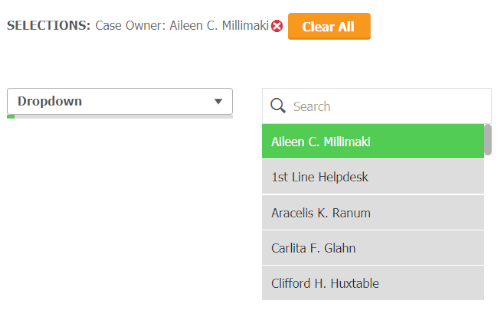
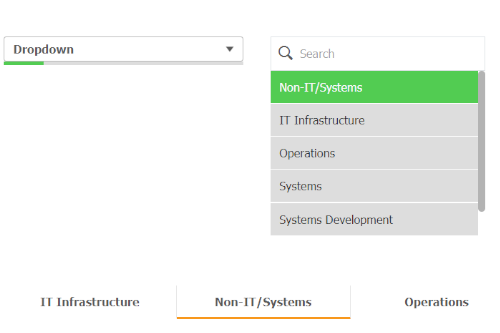
break up settings to individual components

diff --git a/src/pages/PicassoRangeAreaChart.jsx b/src/pages/PicassoRangeAreaChart.jsx
@@ -5,31 +5,33 @@ import QdtComponent from '../components/QdtComponent';
 const viz1 = {
   type: 'QdtSelectionToolbar',
   props: {
-    type: 'QdtSelectionToolbar', height: '300px',
+    type: 'QdtSelectionToolbar',
   },
 };
+
 const viz2 = {
   type: 'QdtPicasso',
   props: {
-    type: 'horizontalBarchart',
-    cols: ['Case Owner Group', '=Num(Avg([Case Duration Time]), \'##.0\')'],
+    type: 'rangeArea',
+    cols: ['Date.autoCalendar.YearMonth', '=Count( {$<Priority={\'High\'}, Status -={\'Closed\'} >} Distinct %CaseId )', '=Count( {$<Priority={\'Low\'}, Status -={\'Closed\'} >} Distinct %CaseId )'], //
     outerHeight: 300,
   },
 };
 
 const disCode = {
   template: '<QdtComponent type={viz2.type} props={viz2.props} />',
-  code: `const viz2 = {
+  code: `
+      const viz2 = {
         type: 'QdtPicasso',
         props: {
-            type: 'horizontalBarchart', 
-            cols: ['Case Owner Group', '=Avg([Case Duration Time])'], 
-            outerHeight: 300,
+          type: 'multiLineChart',
+          cols: ['Date.autoCalendar.YearMonth', '=Count( {$<Status -={'Closed'} >} Distinct %CaseId )', '=Count( {$<Status -={'In Process'} >} Distinct %CaseId )'], //
+          outerHeight: 300,
         },
-    };`,
+      };`,
 };
 
-const PicassoHorizontalBarchart = () => (
+const PicassoRangeAreaChart = () => (
   <div>
     <div className="row">
       <div className="col-md-12 text-left">
@@ -60,4 +62,4 @@ const PicassoHorizontalBarchart = () => (
   </div>
 );
 
-export default PicassoHorizontalBarchart;
+export default PicassoRangeAreaChart;

diff --git a/src/pages/Filters.jsx b/src/pages/Filters.jsx
@@ -11,15 +11,27 @@ const viz1 = {
 const viz2 = {
   type: 'QdtFilter',
   props: {
-    cols: ['Case Owner'],
+    cols: ['Case Owner Group'],
   },
 };
 const viz3 = {
   type: 'QdtFilter',
   props: {
-    cols: ['Case Owner'],
+    cols: ['Case Owner Group'],
     placeholder: 'Expanded',
     expanded: true,
+  },
+};
+
+const viz4 = {
+  type: 'QdtFilter',
+  props: {
+    cols: ['Case Owner Group'],
+    placeholder: 'Expanded',
+    single: true,
+    expandedHorizontal: true,
+    expandedHorizontalSense: false,
+    autoSortByState: 0,
   },
 };
 
@@ -28,6 +40,7 @@ const disCode = {
 <QdtComponent type={viz1.type} props={viz1.props} />
 <QdtComponent type={viz2.type} props={viz2.props} />
 <QdtComponent type={viz3.type} props={viz3.props} />
+<QdtComponent type={viz4.type} props={viz4.props} />
     `,
   code: `    
 const viz1 = {
@@ -49,6 +62,17 @@ const viz1 = {
       placeholder: 'Expanded',
       expanded: true,
     },
+  };
+  const viz4 = {
+    type: 'QdtFilter',
+    props: {
+      cols: ['Case Owner Group'],
+      placeholder: 'Expanded',
+      single: true,
+      expandedHorizontal: true,
+      expandedHorizontalSense: false,
+      autoSortByState: 0,
+    },
   };`,
 };
 
@@ -65,6 +89,9 @@ const Table = () => (
       </div>
       <div className="col-xs-6 col-sm-6 col-md-4 col-xl-3">
         <QdtComponent type={viz3.type} props={viz3.props} />
+      </div>
+      <div className="col-12">
+        <QdtComponent type={viz4.type} props={viz4.props} />
       </div>
     </div>
     <div className="row">

diff --git a/src/components/App.jsx b/src/components/App.jsx
@@ -18,6 +18,7 @@ import PicassoComboLineBarchart from '../pages/PicassoComboLineBarchart';
 import Search from '../pages/Search';
 import CurrentSelections from '../pages/CurrentSelections';
 import PicassoStackedBarchart from '../pages/PicassoStackedBarchart';
+import PicassoRangeAreaChart from '../pages/PicassoRangeAreaChart';
 import D3 from '../pages/D3';
 import Table from '../pages/Table';
 import TableEngine from '../pages/TableEngine';
@@ -44,6 +45,7 @@ const App = () => (
             <Route exact path="/picasso-line-chart" component={PicassoLinechart} />
             <Route exact path="/picasso-multi-line-chart" component={PicassoMultiLinechart} />
             <Route exact path="/picasso-combo-line-barchart" component={PicassoComboLineBarchart} />
+            <Route exact path="/picasso-range-area-chart" component={PicassoRangeAreaChart} />
             <Route exact path="/search" component={Search} />
             <Route exact path="/current-selections" component={CurrentSelections} />
             <Route exact path="/stacked-barchart" component={PicassoStackedBarchart} />

diff --git a/webpack.config.js b/webpack.config.js
@@ -4,7 +4,8 @@ const HtmlWebpackPlugin = require('html-webpack-plugin');
 const CopyWebpackPlugin = require('copy-webpack-plugin');
 
 module.exports = {
-  entry: ['babel-polyfill', 'react-hot-loader/patch', './src/index'],
+//   entry: ['babel-polyfill', 'react-hot-loader/patch', './src/index'],
+  entry: ['react-hot-loader/patch', './src/index'],
   output: {
     path: path.resolve(__dirname, 'dist'),
     publicPath: '',
@@ -18,7 +19,7 @@ module.exports = {
         exclude: /(node_modules)/,
         loader: 'babel-loader',
         query: {
-          presets: [['latest', {es2015: {modules: process.env.ENV === 'production' ? 'commonjs' : false}}], 'react'],
+          presets: [['env', {es2015: {modules: process.env.ENV === 'production' ? 'commonjs' : false}}], 'react'],
           plugins: ['transform-decorators-legacy', 'transform-object-rest-spread', 'transform-class-properties', 'react-hot-loader/babel'],
         },
       },

diff --git a/src/pages/Gauge.jsx b/src/pages/Gauge.jsx
@@ -13,18 +13,28 @@ const viz2 = {
   type: 'QdtPicasso',
   props: {
     type: 'verticalGauge',
-    cols: ['=Avg([Case Duration Time])'],
+    cols: ['=Num(Avg([Case Duration Time]), \'##.#0\')'],
     options: { min: 10, max: 40 },
     outerHeight: 400,
   },
 };
+
+// const viz5 = {
+//   type: 'QdtPicasso',
+//   props: {
+//     type: 'horizontalGauge',
+//     cols: ['=Avg([Case Duration Time])'],
+//     options: { min: 10, max: 40 },
+//     outerHeight: 400,
+//   },
+// };
 
 const viz3 = {
   type: 'QdtPicasso',
   props: {
     type: 'verticalRangeGauge',
     cols: [
-      '=Avg([Case Duration Time])', // Current
+      '=Num(Avg([Case Duration Time]), \'##.#0\')', // Current
       "=Min({<Priority={'High'}>}[Case Duration Time] )", // Range Min
       "=Max({<Priority={'High'}>}[Case Duration Time] )", // Range Max
       '=Min({1}[Case Duration Time])', // Min

diff --git a/src/index.html b/src/index.html
@@ -15,10 +15,10 @@
 	<meta http-equiv="cleartype" content="on">
     <meta name="viewport" content="width=device-width, initial-scale=1">
     <link rel="shortcut icon" href="favicon.ico" />
-    <link rel="stylesheet" href="https://cdnjs.cloudflare.com/ajax/libs/twitter-bootstrap/4.1.3/css/bootstrap-grid.min.css" />
+    <link rel="stylesheet" href="https://cdnjs.cloudflare.com/ajax/libs/twitter-bootstrap/4.1.3/css/bootstrap.min.css" />
     <link rel="stylesheet" href="https://cdnjs.cloudflare.com/ajax/libs/highlight.js/9.12.0/styles/vs2015.min.css">
   </head>
-  <body class="layout">
+  <body>
       <div class="container-fluid">
 
         <!-- React app -->

diff --git a/src/pages/Home.jsx b/src/pages/Home.jsx
@@ -156,6 +156,14 @@ const Home = () => (
         </div>
       </div>
 
+      <div className="col-md-4">
+        <div className="card">
+          <div className="card-header text-center">Picasso Range Area Chart</div>
+          <div className="card-body"><a href="#/picasso-range-area-chart"><img className="card-img-top" src="assets/picassoRangeAreaChart.png" alt="Embedded Native Object" /></a></div>
+          <div className="card-footer text-muted">Range Area chart with Picasso.js & Enigma.js (Engine API)</div>
+        </div>
+      </div>
+
     </div>
 
 

diff --git a/src/pages/PicassoScatterplot.jsx b/src/pages/PicassoScatterplot.jsx
@@ -11,7 +11,9 @@ const viz2 = {
   type: 'QdtPicasso',
   props: {
     type: 'scatterplot',
-    cols: ['Case Owner', '=Avg([Case Duration Time])', '=Count( {$<Status -={\'Closed\'} >} Distinct %CaseId )'],
+    // cols: ['Case Owner', '=Avg([Case Duration Time])',
+    // '=Count( {$<Status -={\'Closed\'} >} Distinct %CaseId )'],
+    cols: ['Case Owner', { qDef: { qDef: '=Avg([Case Duration Time])', qLabel: 'Avg Case Duration Time' } }, '=Count( {$<Status -={\'Closed\'} >} Distinct %CaseId )'],
     options: { noTooltip: true },
     outerHeight: 300,
   },

diff --git a/src/pages/PicassoMultiLinechart.jsx b/src/pages/PicassoMultiLinechart.jsx
@@ -13,7 +13,7 @@ const viz2 = {
   type: 'QdtPicasso',
   props: {
     type: 'multiLineChart',
-    cols: ['Date.autoCalendar.YearMonth', '=Sum([Number of New Cases])', '=Sum([Number of Closed Cases])'], //
+    cols: ['Date.autoCalendar.YearMonth', '=Count( {$<Priority={\'High\'}, Status -={\'Closed\'} >} Distinct %CaseId )', '=Count( {$<Priority={\'Low\'}, Status -={\'Closed\'} >} Distinct %CaseId )'], //
     outerHeight: 300,
   },
 };

diff --git a/src/pages/PicassoComboLineBarchart.jsx b/src/pages/PicassoComboLineBarchart.jsx
@@ -14,7 +14,7 @@ const viz2 = {
     type: 'comboLineBarchart',
     cols: [
       'Case Owner Group',
-      '=Avg([Case Duration Time])',
+      '=Num(Avg([Case Duration Time]), \'##.0\')',
       "=Count( {$<Priority={'Low'}, Status -={'Closed'} >} Distinct %CaseId )",
       "=Count( {$<Priority={'Medium'}, Status -={'Closed'} >} Distinct %CaseId )",
       "=Count( {$<Priority={'High'}, Status -={'Closed'} >} Distinct %CaseId )",

diff --git a/src/styles/index.scss b/src/styles/index.scss
@@ -86,3 +86,11 @@ h1, h2, h3, h4, h5, h6, .h1, .h2, .h3, .h4, .h5, .h6 {
 .qtd-table-header {
     th { text-align: left; }
 }
+
+//Picasso Tooltip
+// .pic-tooltip-content {
+//     background-color: white !important;
+//     border: 1px solid #ccc !important;
+//     color: darkgray !important;
+// }
+// .pic-tooltip-arrow { }

diff --git a/src/pages/PicassoPieChart.jsx b/src/pages/PicassoPieChart.jsx
@@ -13,7 +13,8 @@ const viz2 = {
   props: {
     type: 'pie',
     cols: ['Case Owner Group', '=Num(Avg([Case Duration Time]), \'##\')'],
-    outerHeight: 300,
+    // prio: 'svg',
+    outerHeight: 600,
   },
 };
 
